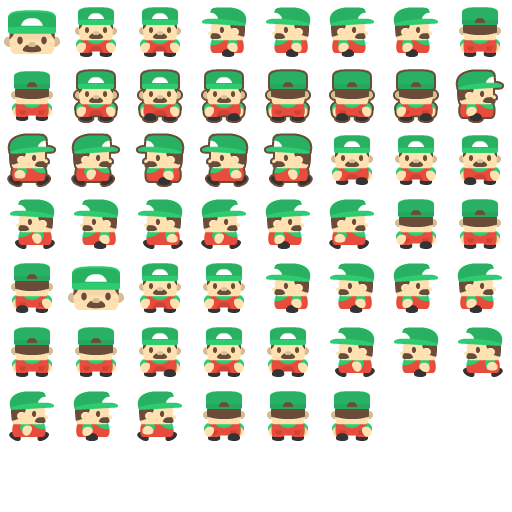
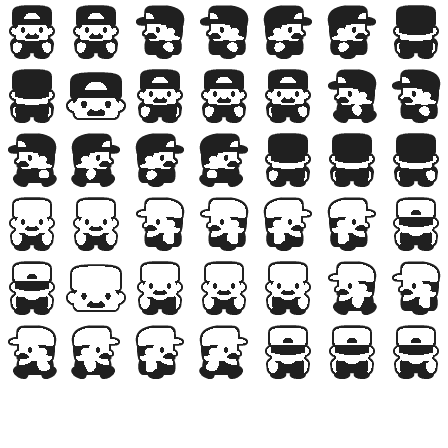
update characters spritesheet to monochrome

diff --git a/packages/front/src/ui/battle-ui/character-list-panel/character-item/character-image.tsx b/packages/front/src/ui/battle-ui/character-list-panel/character-item/character-image.tsx
@@ -8,7 +8,7 @@ export type CharacterImageProps = {
     size: number;
 };
 
-const getTexturePath = (type: CharacterType) => `${type}/face.png`;
+const getTexturePath = (type: CharacterType) => `${type}/${type}_face.png`;
 
 export const CharacterImage: React.FC<CharacterImageProps> = React.memo(({ characterType, size }) => {
 
